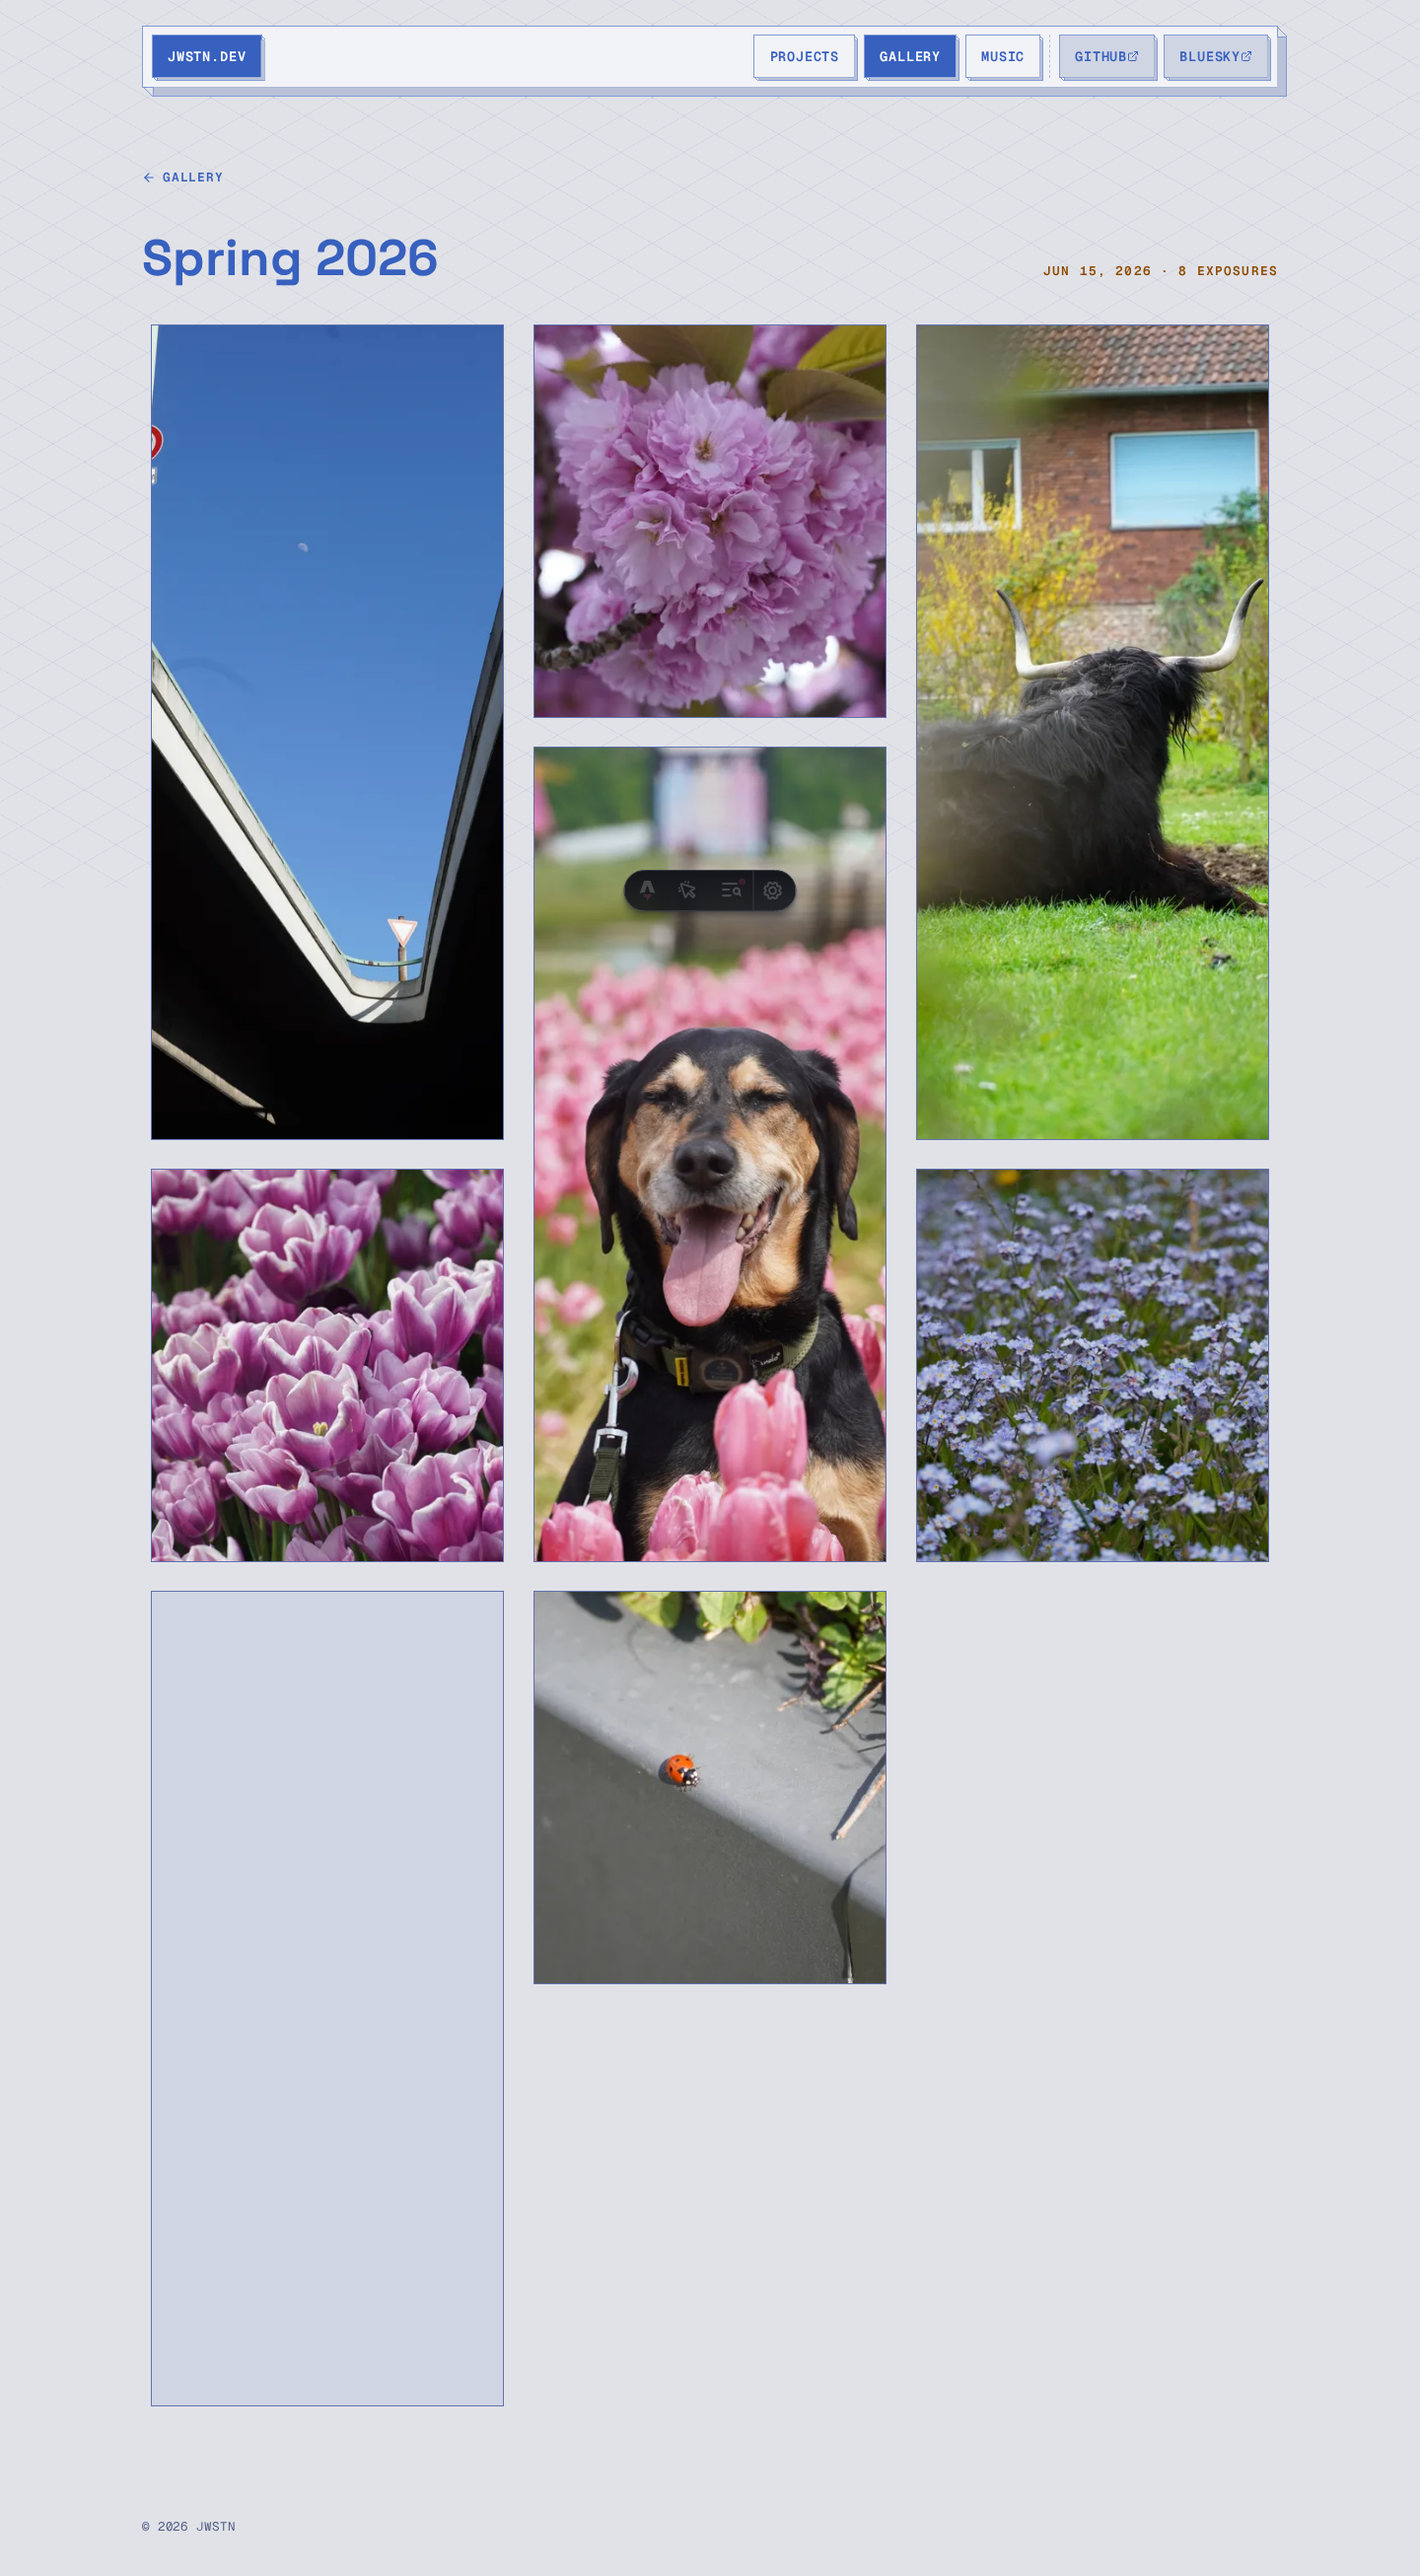
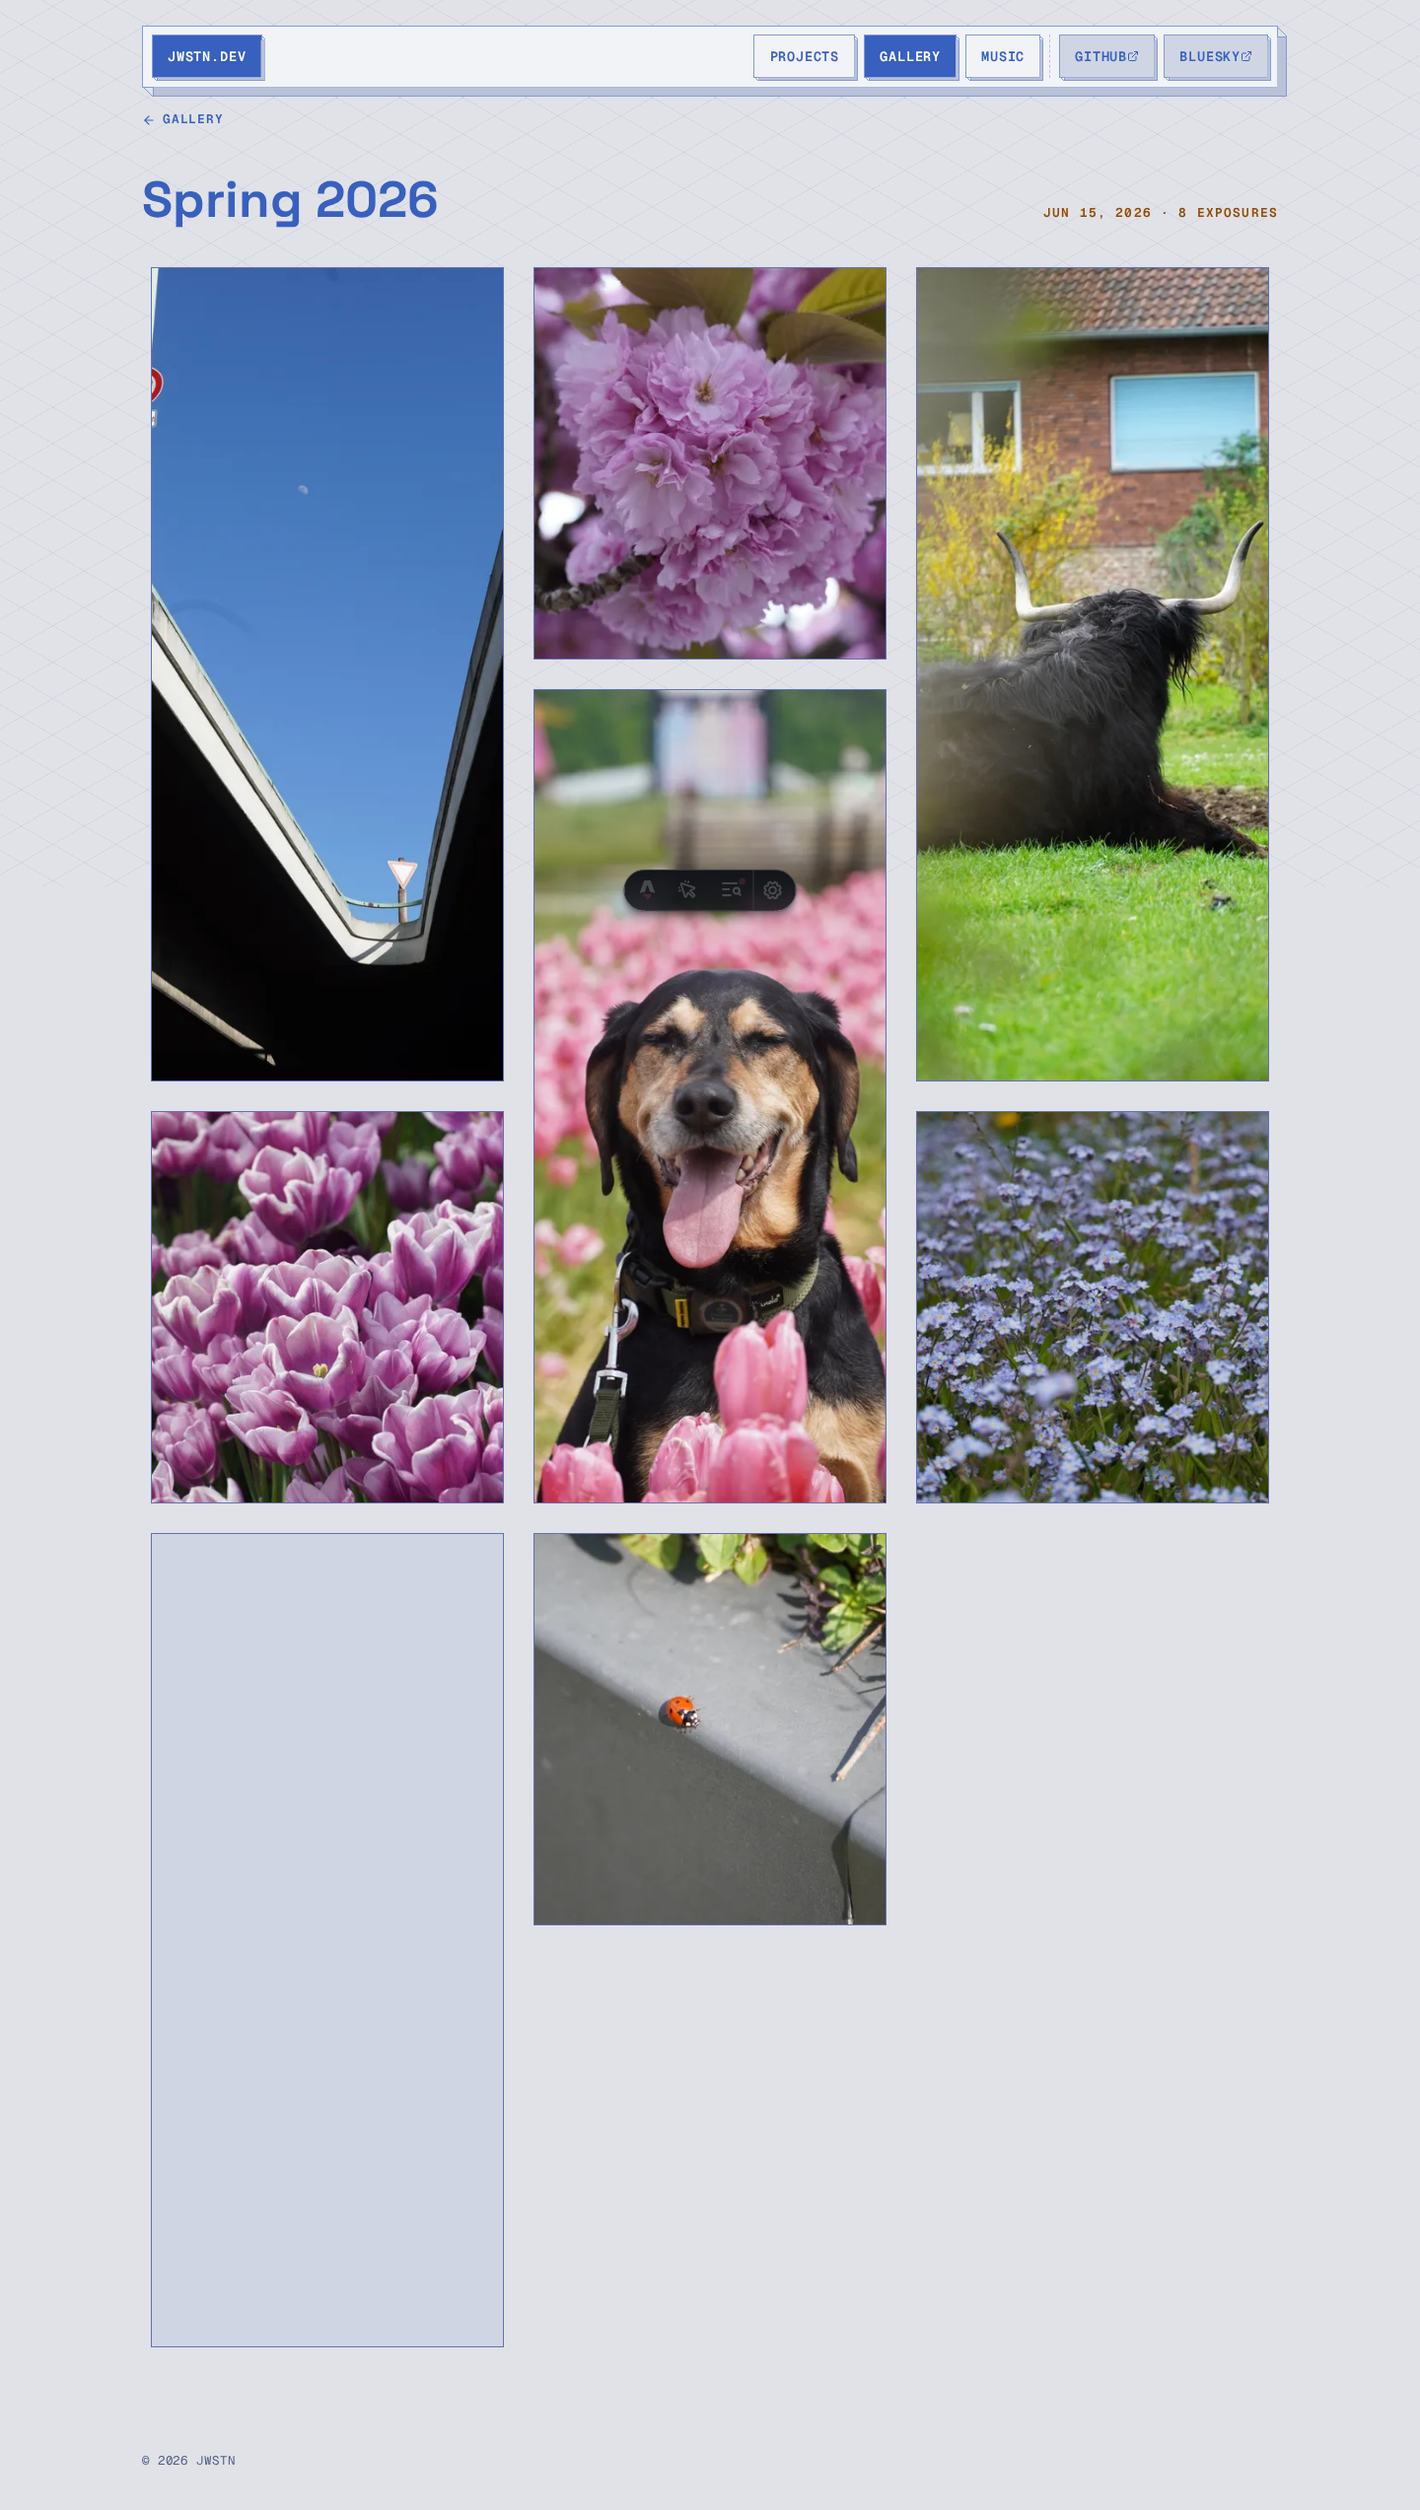
Tighten header-to-content spacing on detail pages and /music (#53)

diff --git a/src/styles/theme.css b/src/styles/theme.css
@@ -150,7 +150,11 @@ html.theme-isometric .iso-shell {
 html.theme-isometric .iso-stack {
   display: grid;
   gap: 1.9rem;
-  padding-block: 2.5rem 3.5rem;
+  padding-block: 0.75rem 3rem;
+}
+/* detail pages open with a back link: pull it up under the header */
+html.theme-isometric .iso-stack:has(> .iso-backrow:first-child) {
+  padding-block-start: 0.25rem;
 }
 
 html.theme-isometric .iso-muted {
@@ -524,6 +528,9 @@ html.theme-isometric .iso-cassette.is-fallback .iso-cassette-stage canvas {
 /* Home — parts list doors                                             */
 /* ------------------------------------------------------------------ */
 
+html.theme-isometric .iso-stack > section:first-of-type .iso-sectionlabel {
+  margin-top: 0;
+}
 html.theme-isometric .iso-sectionlabel {
   display: flex;
   align-items: center;
@@ -766,9 +773,6 @@ html.theme-isometric .iso-btn-face svg.lucide {
 
 html.theme-isometric .iso-backrow {
   margin: 0;
-}
-html.theme-isometric .iso-backrow {
-  margin-top: 1.4rem;
 }
 html.theme-isometric .iso-backlink {
   display: inline-flex;
